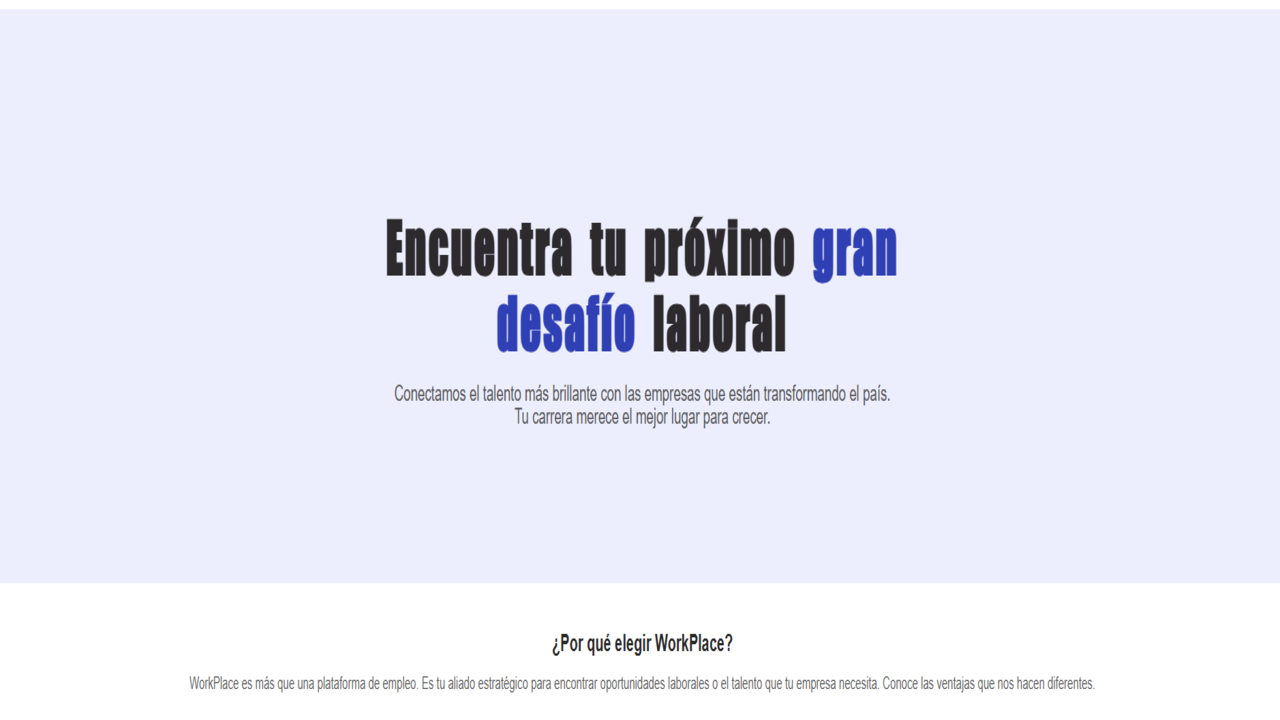
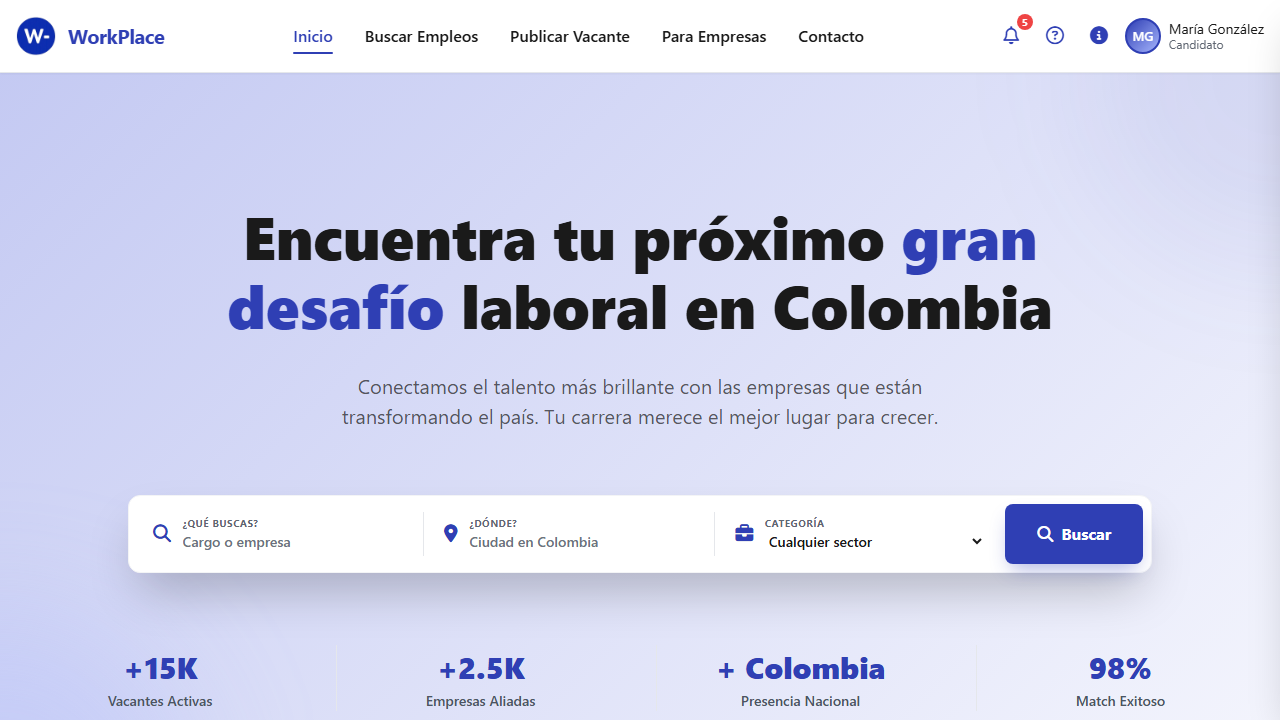
PWA: rutas relativas, caché completa y capturas actualizadas
- sw.js usa rutas relativas (funciona en GitHub Pages y en local) y precarga todas las páginas
- manifest.json con start_url y scope relativos
- Capturas de instalación con el diseño actual
- Se eliminan los logos que ya no se usaban (2 MB)

diff --git a/sw.js b/sw.js
@@ -1,23 +1,41 @@
-const CACHE_NAME = "workplace-v4";
+const CACHE_NAME = "workplace-v5";
+
+// Rutas relativas a la ubicación de sw.js: funcionan igual en GitHub Pages
+// (/WorkPlace/) que en un servidor local (/).
 const FILES = [
-  "/WorkPlace/",
-  "/WorkPlace/index.html",
-  "/WorkPlace/manifest.json",
-  "/WorkPlace/css/style.css",
-  "/WorkPlace/js/main.js",
-  "/WorkPlace/js/buscarempleo.js",
-  "/WorkPlace/js/publicarvacante.js",
-  "/WorkPlace/views/buscarempleo.html",
-  "/WorkPlace/views/centrodeayuda.html",
-  "/WorkPlace/views/contacto.html",
-  "/WorkPlace/views/informaciontecnica.html",
-  "/WorkPlace/views/mapadelsitio.html",
-  "/WorkPlace/views/paraempresas.html",
-  "/WorkPlace/views/perfil.html",
-  "/WorkPlace/views/publicarvacante.html",
-  "/WorkPlace/Imagenes/icon-192.png",
-  "/WorkPlace/Imagenes/icon-512.png",
-  "/WorkPlace/Imagenes/icon-maskable-512.png"
+  "./",
+  "./index.html",
+  "./manifest.json",
+  "./css/style.css",
+  "./vendor/fontawesome/css/all.min.css",
+  "./vendor/fontawesome/webfonts/fa-solid-900.woff2",
+  "./vendor/fontawesome/webfonts/fa-regular-400.woff2",
+  "./vendor/fontawesome/webfonts/fa-brands-400.woff2",
+  "./data/vacantes.js",
+  "./js/store.js",
+  "./js/main.js",
+  "./js/vacantes.js",
+  "./js/inicio.js",
+  "./js/buscarempleo.js",
+  "./js/vacante.js",
+  "./js/publicarvacante.js",
+  "./js/perfil.js",
+  "./js/centrodeayuda.js",
+  "./js/informaciontecnica.js",
+  "./views/buscarempleo.html",
+  "./views/vacante.html",
+  "./views/publicarvacante.html",
+  "./views/paraempresas.html",
+  "./views/contacto.html",
+  "./views/perfil.html",
+  "./views/centrodeayuda.html",
+  "./views/informaciontecnica.html",
+  "./views/legal.html",
+  "./views/mapadelsitio.html",
+  "./Imagenes/icon-192.png",
+  "./Imagenes/icon-512.png",
+  "./Imagenes/icon-maskable-512.png",
+  "./Imagenes/oficina.jpg"
 ];
 
 self.addEventListener("install", (e) => {
@@ -52,7 +70,7 @@ self.addEventListener("fetch", (e) => {
   if (request.method !== "GET" || new URL(request.url).origin !== self.location.origin) return;
 
   // Páginas HTML: primero la red para mostrar siempre la versión más reciente;
-  // si no hay conexión, se usa la copia en caché.
+  // si no hay conexión, se usa la copia en caché (ignorando ?id=... y similares).
   if (request.mode === "navigate") {
     e.respondWith(
       fetch(request)
@@ -61,14 +79,15 @@ self.addEventListener("fetch", (e) => {
           return response;
         })
         .catch(() =>
-          caches.match(request).then((cached) => cached || caches.match("/WorkPlace/index.html"))
+          caches.match(request, { ignoreSearch: true })
+            .then((cached) => cached || caches.match("./index.html"))
         )
     );
     return;
   }
 
-  // CSS, JS e imágenes: se responde al instante desde caché y se actualiza
-  // en segundo plano (stale-while-revalidate).
+  // CSS, JS, fuentes e imágenes: se responde al instante desde caché y se
+  // actualiza en segundo plano (stale-while-revalidate).
   e.respondWith(
     caches.match(request).then((cached) => {
       const network = fetch(request)
